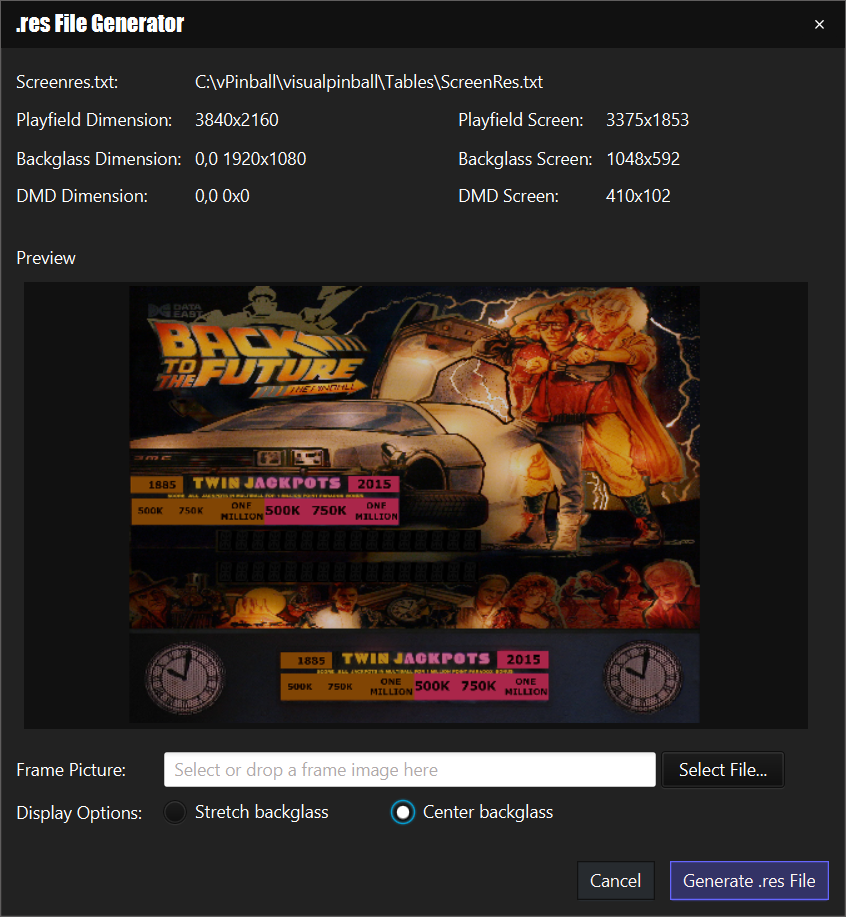
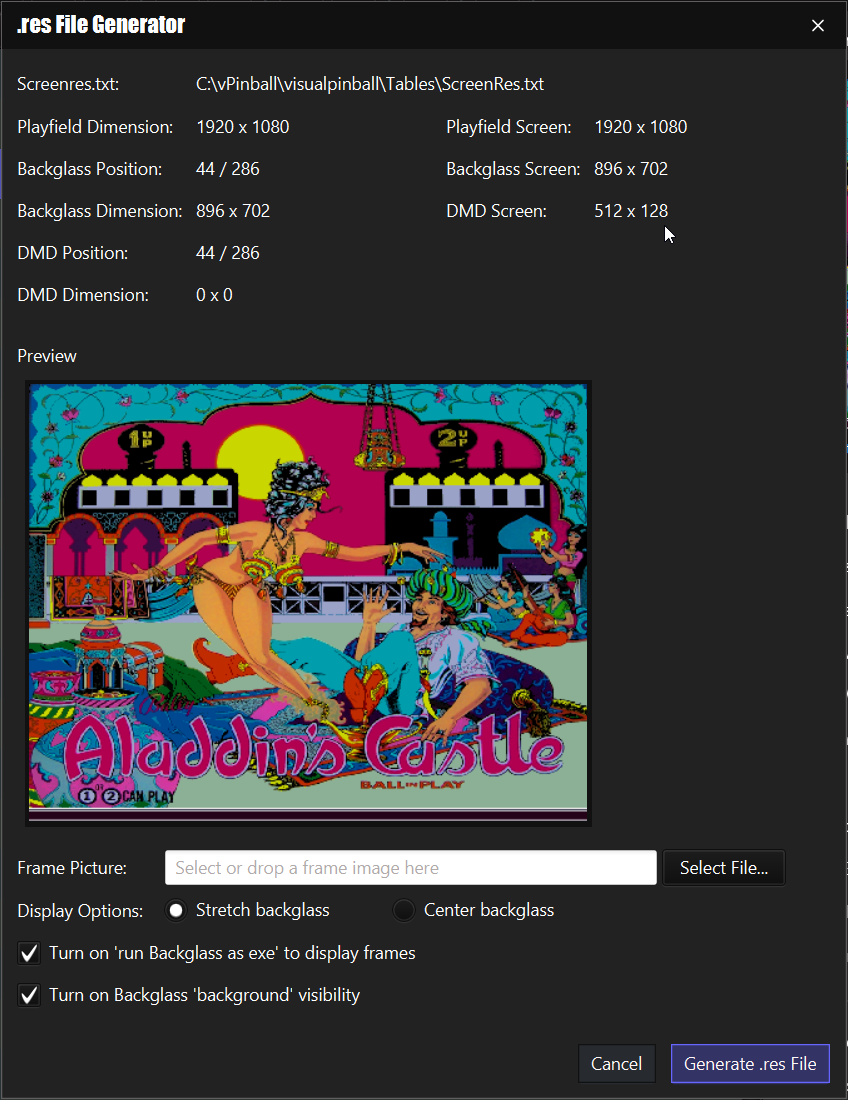
3.11

diff --git a/RELEASE_NOTES.md b/RELEASE_NOTES.md
@@ -8,12 +8,17 @@
   - The Table Data Manager dialog has also a configuration panel for the PinVol settings now, located under the tab "Settings".  
   <img src="https://raw.githubusercontent.com/syd711/vpin-studio/main/documentation/tables/pinvol-dialog.png" width="350" />
 
-- **Tables / Backglass Manager**: Added DMD position dialog. Finally, you don't have to search for your mouse cursor to position the DMD anymore. The dialog comes with an auto-position option so you don't even have to adjust anything manually.
-  <img src="https://raw.githubusercontent.com/syd711/vpin-studio/main/documentation/tables/dmd-positioner.png" width="500" />
+- **Tables / Backglass Manager**: Tables / Backglass Manager: Added DMD position dialog. Finally, you don't have to search for your mouse cursor to position the DMD anymore.
+  - Choose whether the freezy / VPinMAME DMD appears on backglass our full DMD screen
+  - Drag and draw with your mouse the dmd position, adjust with handlers or precisely entering numbers or using +/- buttons
+  - And don't miss our auto-position option so you don't even have to adjust anything manually.
+   <img src="https://raw.githubusercontent.com/syd711/vpin-studio/main/documentation/tables/dmd-positioner.png" width="500" />
 
 - **Tables / Backglass Manager**: Added .res designer dialog. Create fancy background for your backglass!
-
-    <img src="https://raw.githubusercontent.com/syd711/vpin-studio/main/documentation/tables/res-editor.png" width="400" />
+  - This new dialog helps creating table res file. It is possible to choose wether the backglass is stretched in the screen or centered.
+  - When centered, you can upload or drop an image that is used as a background.
+  
+   <img src="https://raw.githubusercontent.com/syd711/vpin-studio/main/documentation/tables/res-editor.png" width="330" /> <img src="https://raw.githubusercontent.com/syd711/vpin-studio/main/documentation/tables/res-editor-frame.png" width="330" />
 
 - **VPin Studio Launcher**: Added Wake-on-LAN (WOL) functionality using a Magic Packet to power on any VPin Studio Servers that are in sleep mode. To enable WOL, follow these steps:
   1. **Enable Wake-on-LAN in BIOS**:
